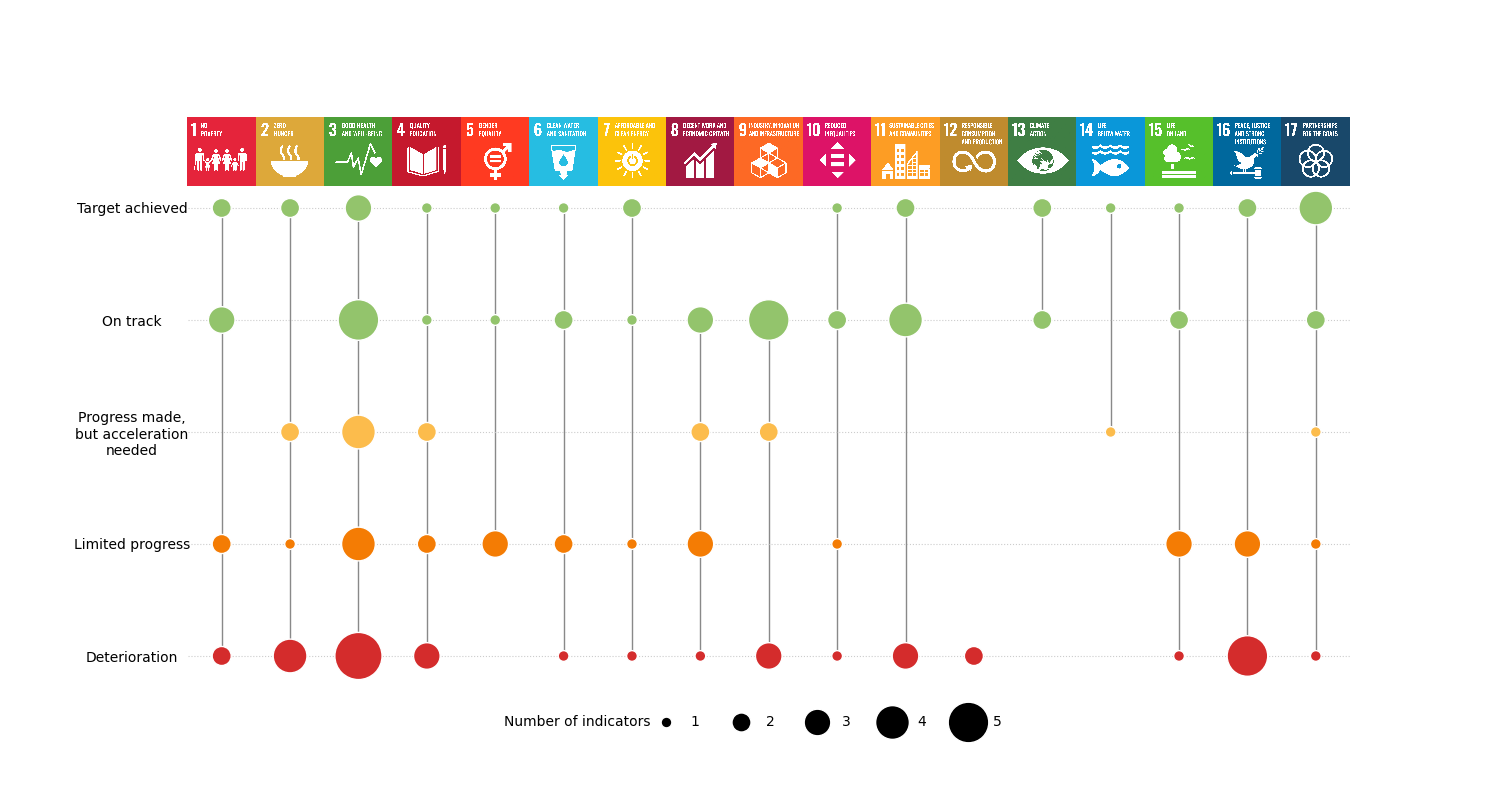
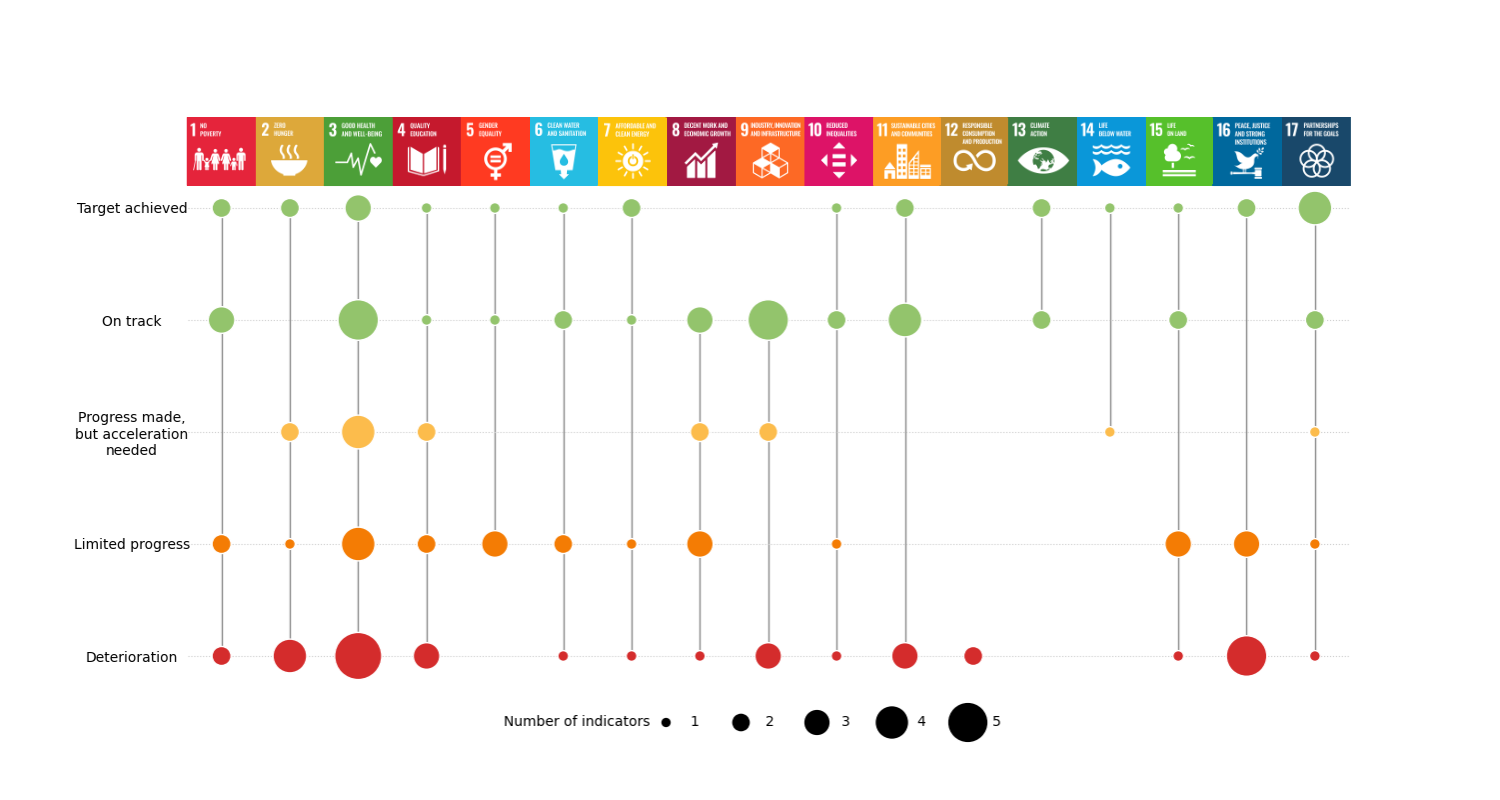
Fine tuning

Changed region(s): [[0.1227, 0.125, 0.8893, 0.2188], [0.3373, 0.875, 0.4293, 0.9062]]

diff --git a/_pages/fr/summary.md b/_pages/fr/summary.md
@@ -20,6 +20,6 @@ En date du 31 décembre 2025,
 - 19,7 %  avaient démontré des progrès limités.
 - 25,8 % démontraient une détérioration du progrès. 
 
-#### Figure 1  : Progrès réalisés par le Canada à l’égard des objectifs de développement durable au cours de la période allant de 2015 au 31 décembre 2025, par objectif, Cadre mondial d’indicateurs
+#### <b>Figure 1  : Progrès réalisés par le Canada à l’égard des objectifs de développement durable au cours de la période allant de 2015 au 31 décembre 2025, par objectif, Cadre mondial d’indicateurs</b>
 
 ![Image sommaire du Cadre mondial d'indicateurs, 2025](https://raw.githubusercontent.com/sdg-data-canada-odd-donnees/sdg-odd-dev/develop/assets/img/summary/2025/GIF_2025_FR.png)

diff --git a/_pages/summary.md b/_pages/summary.md
@@ -19,9 +19,8 @@ As of December 31, 2025,
 - For 10.6% of the indicators, progress has been made but an acceleration is needed.
 - 19.7% showed limited progress.
 - 25.8% showed deterioration in progress.
-<<<<<<< HEAD
 
-#### Figure 1: Canada’s progress toward the Sustainable Development Goals from 2015 to December 31, 2025, by goal, Global Indicator Framework
+#### <b>Figure 1: Canada’s progress toward the Sustainable Development Goals from 2015 to December 31, 2025, by goal, Global Indicator Framework</b>
 
 ![Global Indicator Framework Image Summary, 2025](https://raw.githubusercontent.com/sdg-data-canada-odd-donnees/sdg-odd-dev/develop/assets/img/summary/2025/GIF_2025_EN.png)
 
